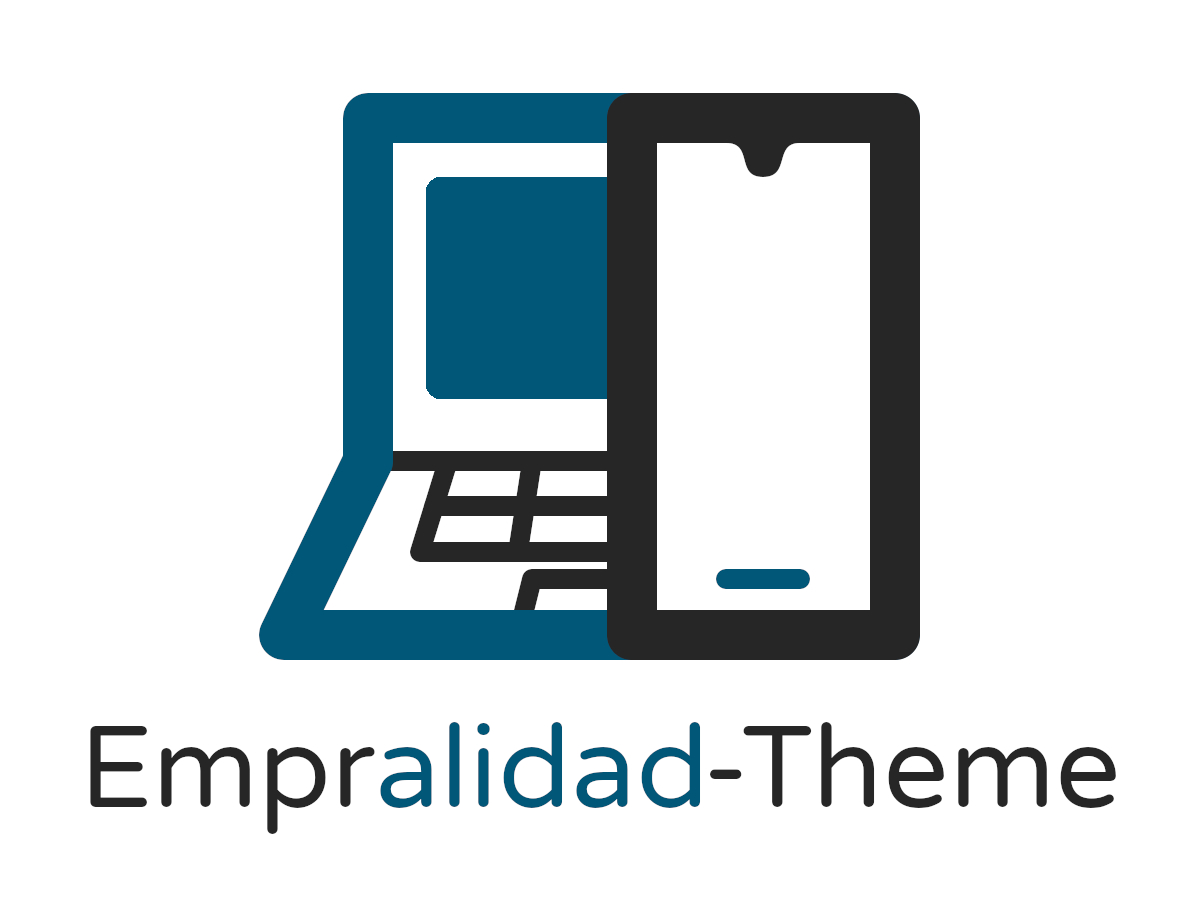
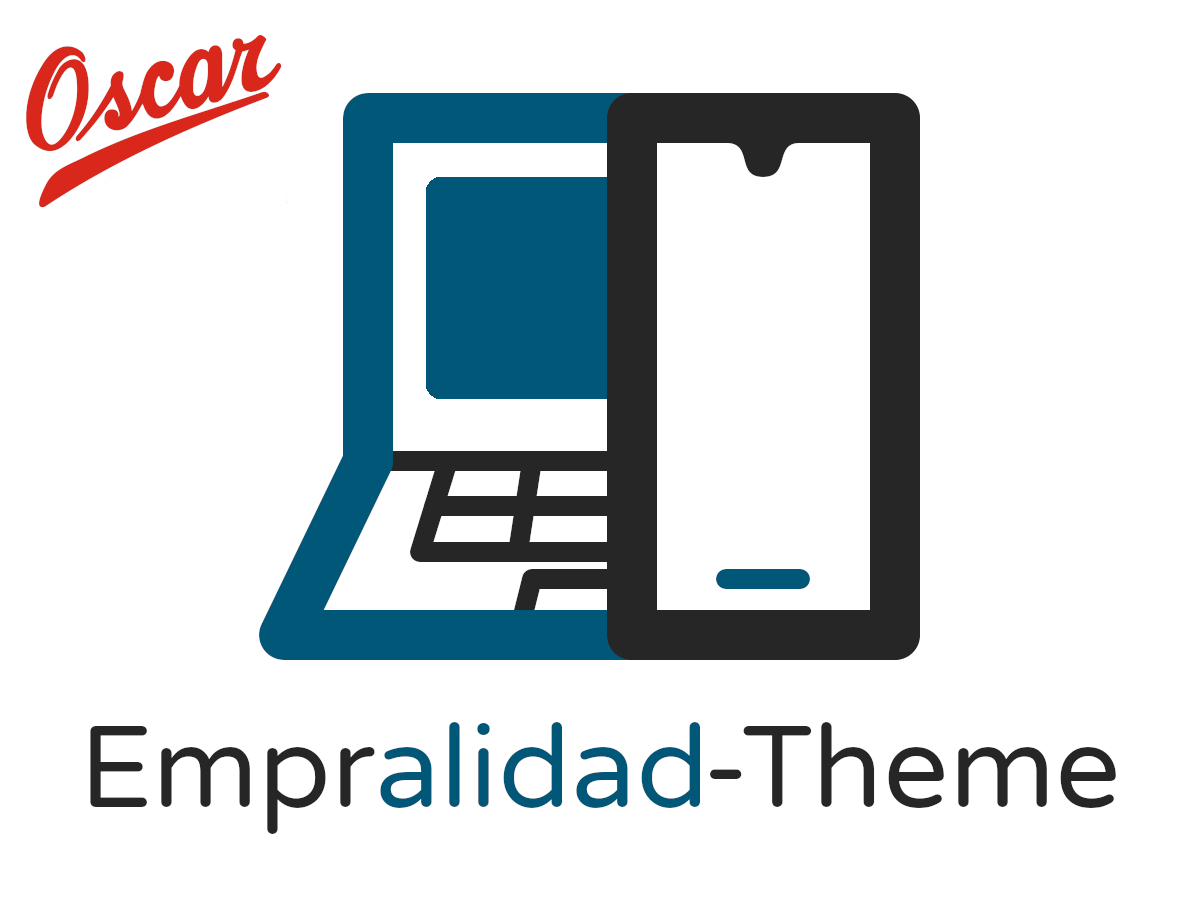
add oscar branch and change to full width size pages

Changed region(s): [[0.0, 0.0311, 0.2467, 0.2489]]

diff --git a/style.css b/style.css
@@ -1,8 +1,8 @@
 /*
-Theme Name: Empralidad - Theme
+Theme Name: Empralidad - Theme | Oscar
 Author: Alan Pereyra
 Author URI: https://empralidad.com.ar/alanpereyra
-Description: Empralidad es un tema integramente hecho por Alan Pereyra para cubrir las necesidades de desarrollo online de sus clientes. Pensado para ser gestionado por personas sin ningún conocimiento de programación. Es un tema minimalista flat desing, pensado con la filosofía de menos es más. Hecho en PHP, CSS, HTML5 y Javascript.
+Description: Empralidad - Theme | Oscar es un tema integramente hecho por Alan Pereyra para Oscar paseo de compras. Pensado para ser gestionado por personas sin ningún conocimiento de programación. Es un tema minimalista flat desing, pensado con la filosofía de menos es más. Hecho con PHP, CSS, HTML5 y Javascript.
 Version: 3.0.9
 License: GNU General Public License v3 or later
 License URI: http://www.gnu.org/licenses/gpl-3.0.html

diff --git a/front-page.php b/front-page.php
@@ -276,12 +276,12 @@
                     </div>
                 <?php } ?>
                 <?php if ( is_front_page() && !is_home() ) {?>
-                    <section class="px-0 bg-personalized-secondary border-30px col-12 <?php if($emp_show1 === 'true'||$emp_show2 === 'true'||$emp_show3 === 'true'){ ?> col-md-9 <?php }else{ ?> col-md-10 col-lg-9 <?php } ?> mx-auto">
+                    <section class="px-0 bg-personalized-secondary border-30px col-12 mx-auto">
                       <?php get_template_part('includes/wc-featured-products') ?>
                       <?php get_template_part('content-home') ?>
                     </section>
                 <?php } else { ?>
-                    <div style="background: #f9f9f9" class="p-3 border-30px col-12 <?php if($emp_show1 === 'true'||$emp_show2 === 'true'||$emp_show3 === 'true'){ ?> col-md-9 <?php }else{ ?> col-md-10 col-lg-9 <?php } ?> mx-auto">
+                    <div style="background: #f9f9f9" class="p-3 border-30px col-12 mx-auto">
                       <?php get_template_part('includes/wc-featured-products') ?>
                           <br>
                         <h2 class="text-center">Lo más reciente</h2>
